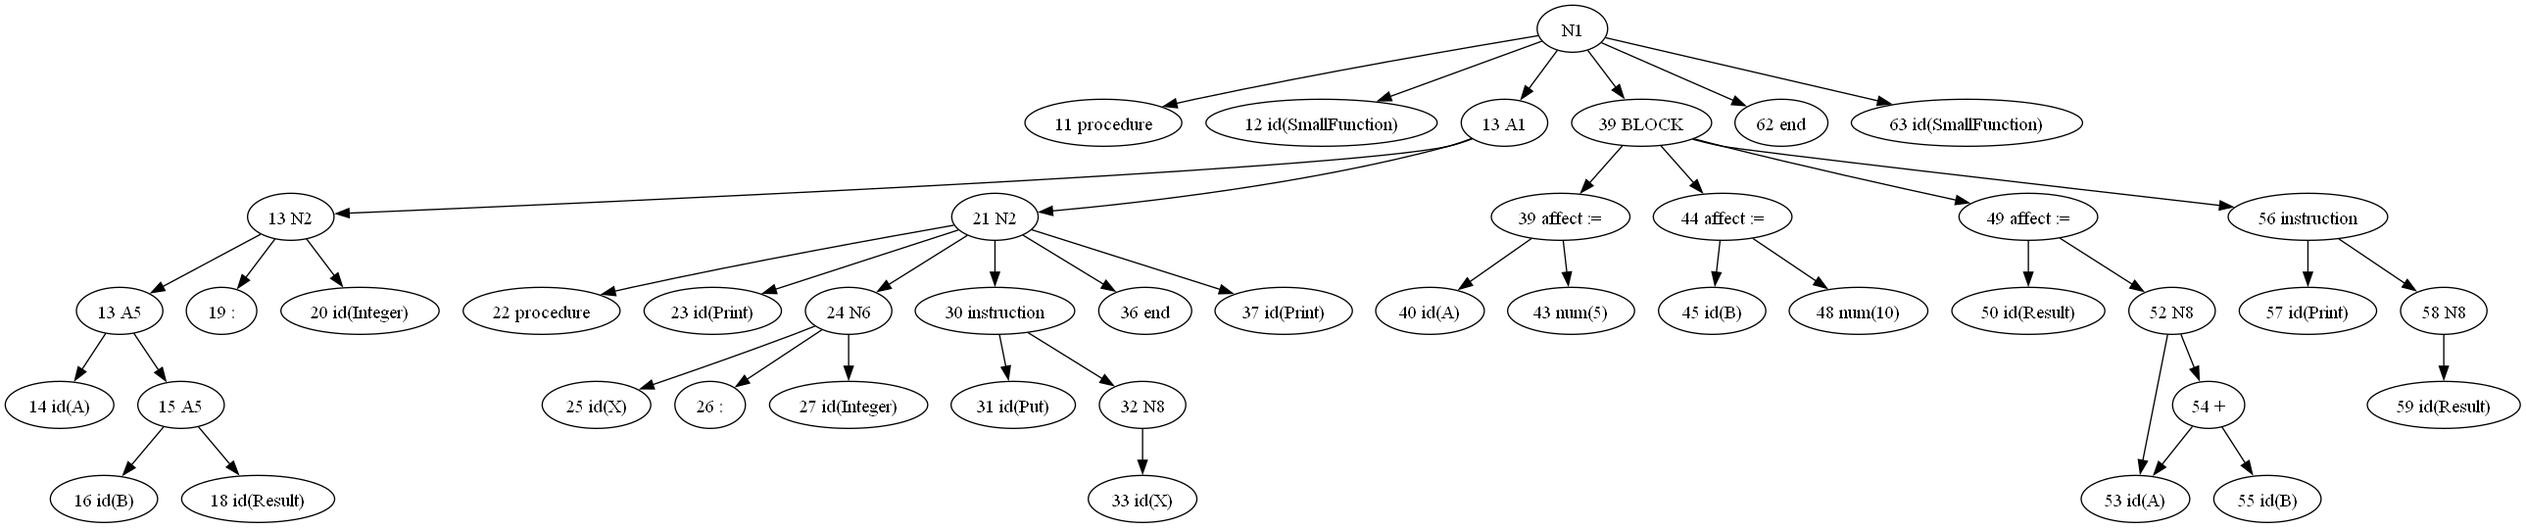
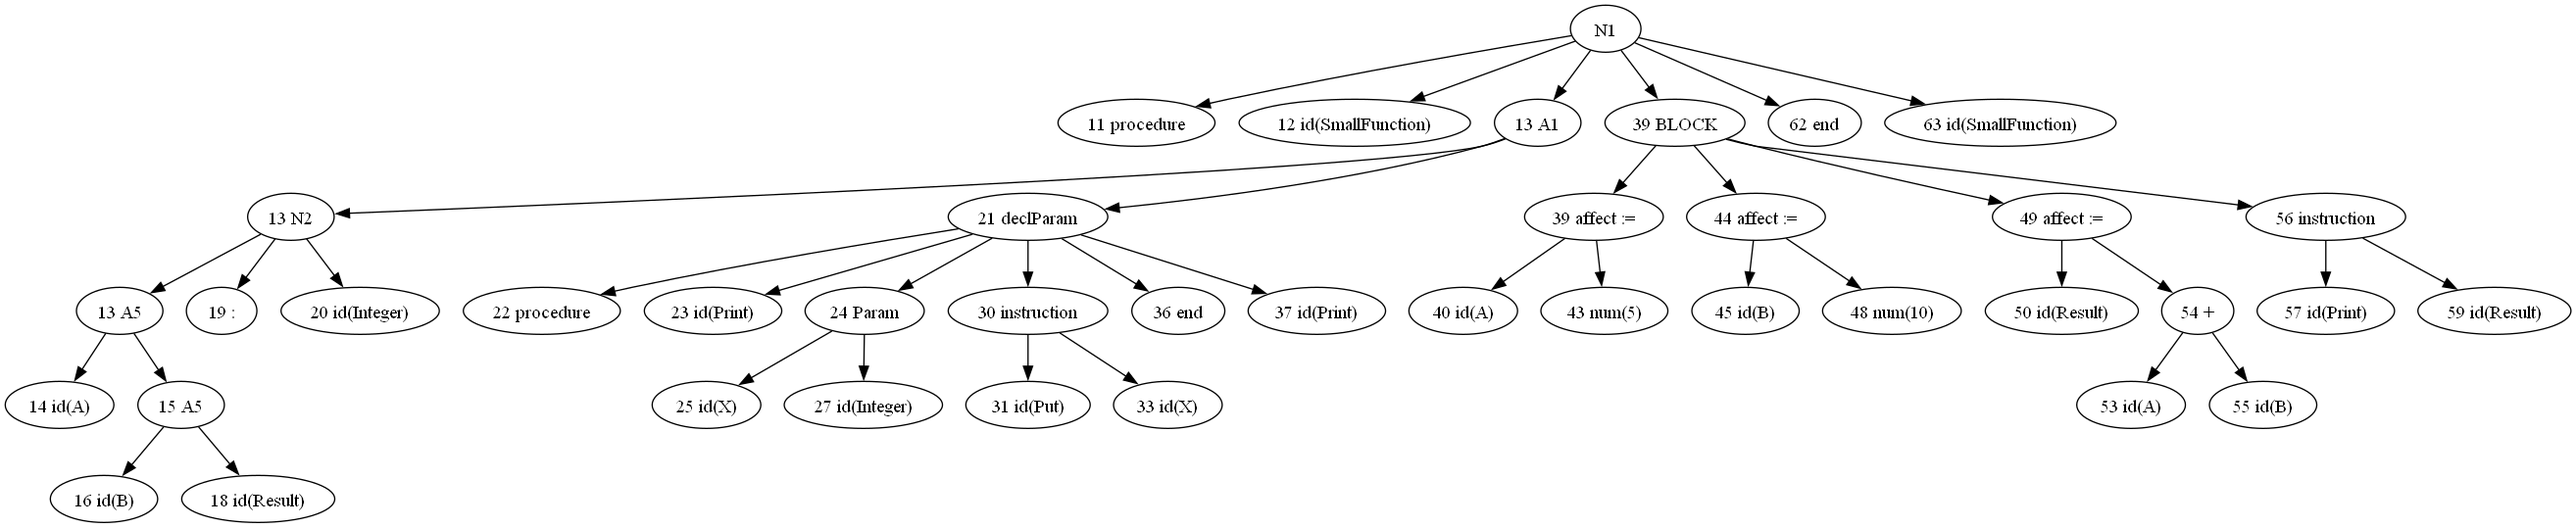
N6

diff --git a/parseur/main_parseur.py b/parseur/main_parseur.py
@@ -234,6 +234,9 @@ def generate_final_AST(root):
 
     remove_duplicate_children_working(root)
 
+    for node in PreOrderIter(root):
+        if node.name != "N1":
+            paramVar(node)
     return root
 
 
@@ -461,6 +464,19 @@ def test_else(node, string):
             temp = node.parent.parent
             node.parent.parent = None
             node.parent = temp
+
+def paramVar(node):
+    name = node.name.split(" ")
+    if name[1]=="N6":
+        nameParent = node.parent.name.split(" ")
+        node.parent.name = nameParent[0] + " declParam"
+        children = node.children
+        for i in range(len(children)):
+            nameChild = children[i].name.split(" ")
+            if nameChild[1] == ":":
+                children[i].parent = None
+                break
+        node.name = name[0]+ " Param"
 
 def blocWhile(node):
     nom = node.name.split(" ")
